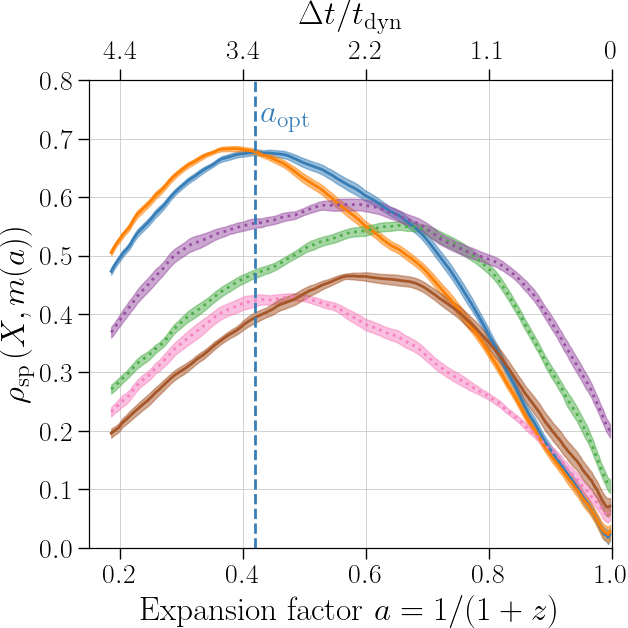
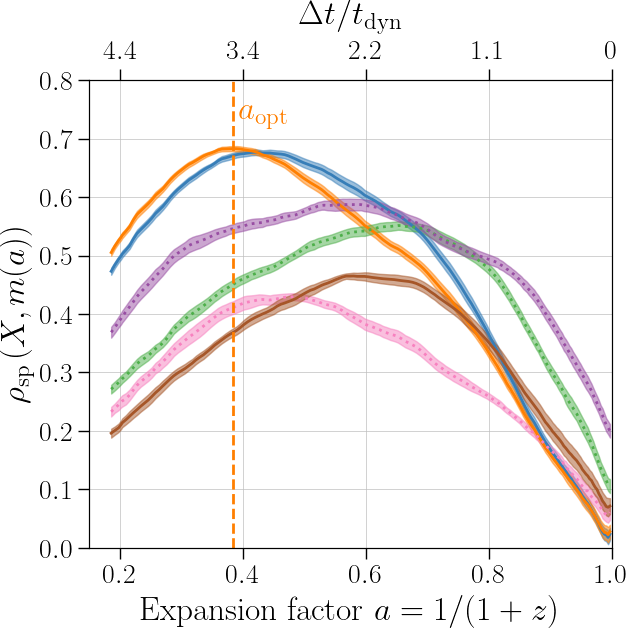
update aopt to be in vmax/vvir

diff --git a/bin/figures.py b/bin/figures.py
@@ -205,10 +205,10 @@ class CorrelationMAH(Figure):
         for j, param in enumerate(self.params):
             scale, corr, err = max_dict[param]
             text += f"{param}: Max corr is {corr:.3f} +- {err:.3f} at scale {scale:.3f}\n"
-            if param == "cvir":
-                assert j == 0
-                ax.axvline(scale, color=CB_COLORS[0], ls="--")
-                ax.text(scale + 0.01, abs(corr) + 0.05, r"$a_{\rm opt}$", color=CB_COLORS[0])
+            if param == "vmax/vvir":
+                assert j == 1
+                ax.axvline(scale, color=CB_COLORS[1], ls="--")
+                ax.text(scale + 0.01, abs(corr) + 0.05, r"$a_{\rm opt}$", color=CB_COLORS[1])
 
         # additional saving of max correlations for table
         with open(FIGS_DIR.joinpath("max_corrs_ma.txt"), "w") as fp:
